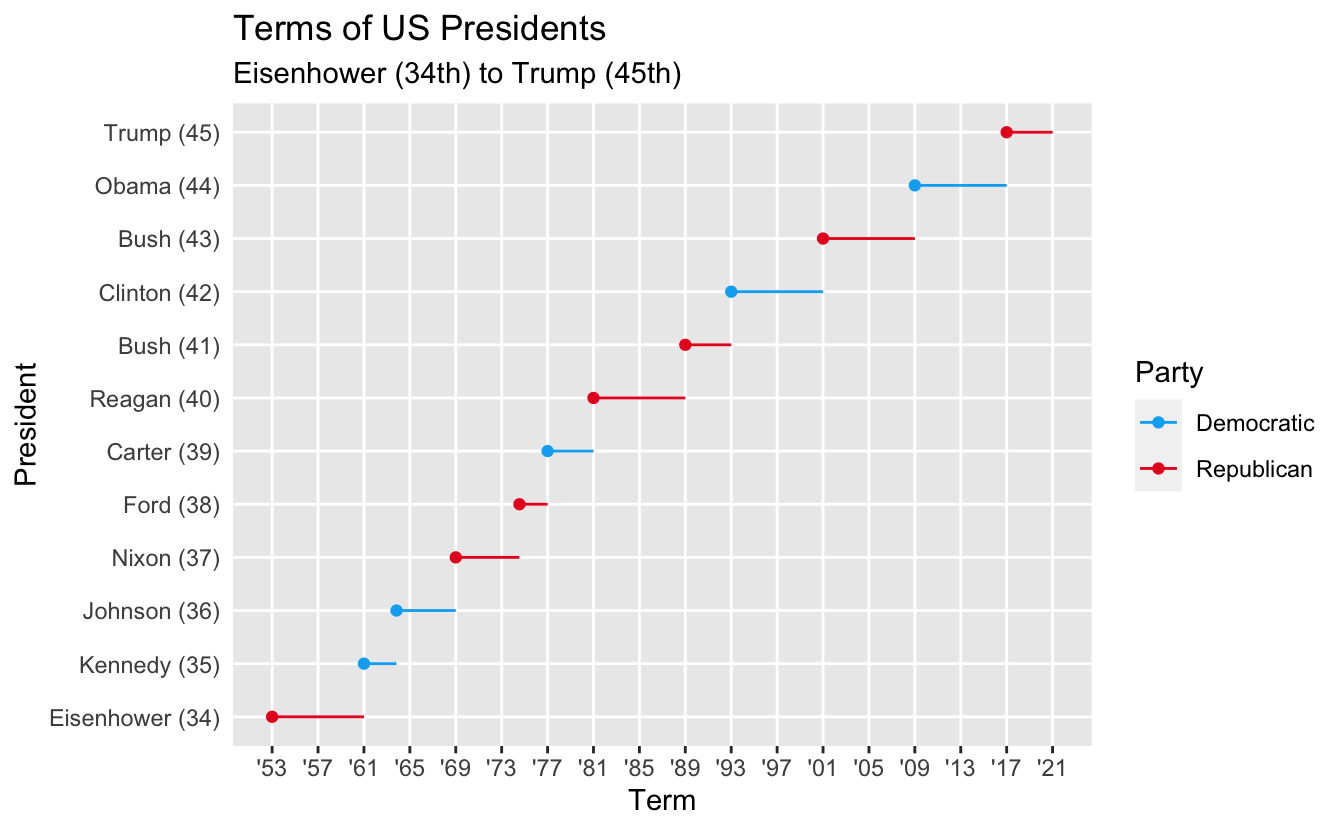
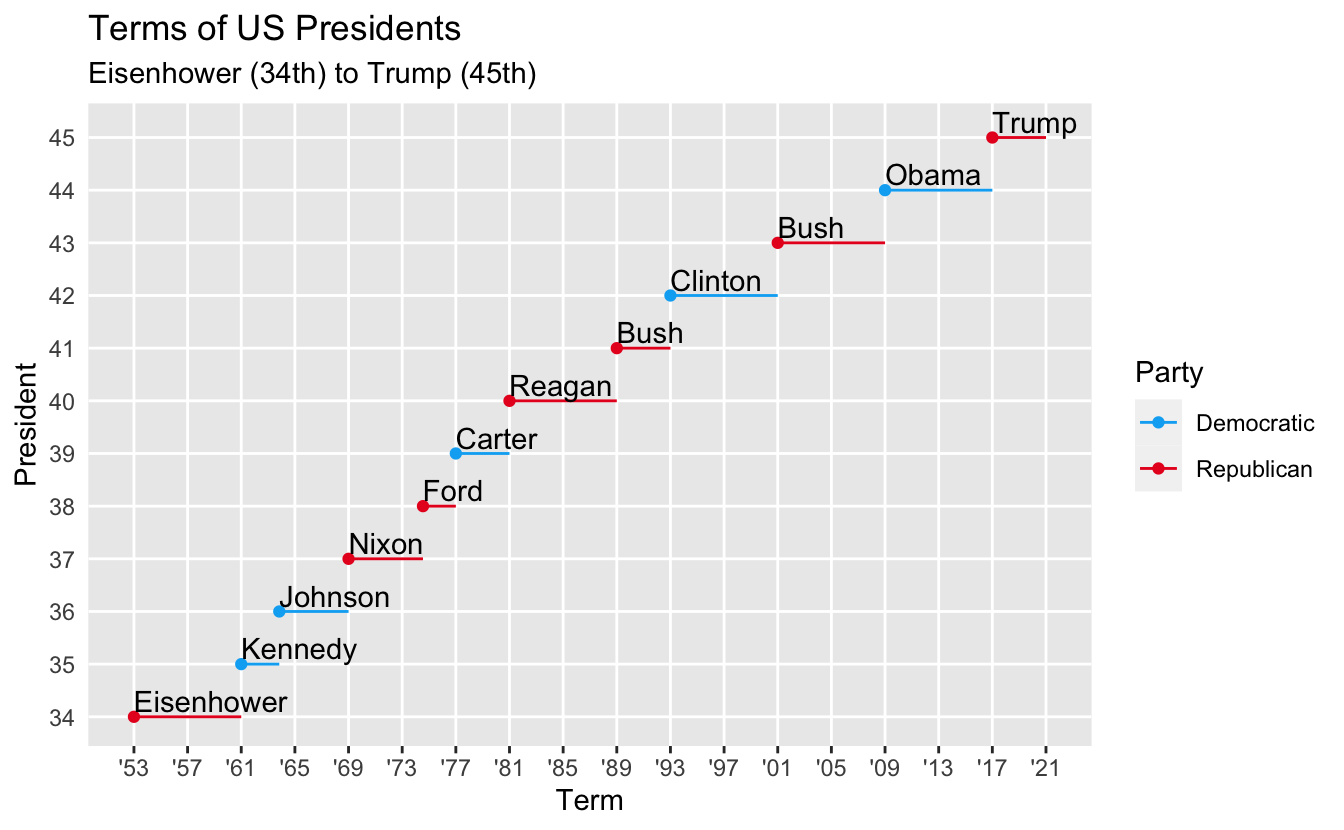
Update solution code

diff --git a/content/blog/data-trail/index.md b/content/blog/data-trail/index.md
@@ -16,7 +16,7 @@ photo:
 # one of: "deep-dive", "learn", "package", "programming", "roundup", or "other"
 categories: [learn] 
 tags: [book, internship]
-rmd_hash: 8aa13f52cfb3c5bd
+rmd_hash: b7373755f14ffe58
 
 ---
 
@@ -37,9 +37,9 @@ Last year at rstudio::conf(2022) Jeff Leek [shared about the Data Trail program]
 
 > DataTrail is a no-cost, paid 14-week educational initiative for young-adult, high school and GED-graduates. DataTrail aims to equip members of underserved communities with the necessary skills and support required to work in the booming field of data science. DataTrail is a fresh take on workforce development that focuses on training both Black, Indigenous, and other people of color (BIPOC) interested in the data science industry ***and*** their potential employers.
 
-We then have been so excited to have the opportunity to work with two Data Trail interns this year! [Jabir Ghaffar](https://jabirghaffar.quarto.pub/jabir/) went through the Data Trail program June 2022, and [Davon Person](https://www.linkedin.com/in/davon-person-1ba973194/) went through the Data Trail program in 2019, and now works as a Data Programming Specialist with the project. Jabir and Davon worked on solutions for the R for Data Science book, explored some Tidy Tuesday datasets, created their own Quarto websites, and their perspective helped us learn more about how our tools and documentation can better support emerging data scientists.
+We have been so excited then to have the opportunity to work with two Data Trail interns this year! [Jabir Ghaffar](https://jabirghaffar.quarto.pub/jabir/) went through the Data Trail program June 2022, and [Davon Person](https://www.linkedin.com/in/davon-person-1ba973194/) went through the Data Trail program in 2019, and now works as a Data Programming Specialist with the project. Jabir and Davon worked on solutions for the R for Data Science book, explored some Tidy Tuesday datasets, created their own Quarto websites, and their perspectives helped us learn more about how our tools and documentation can better support emerging data scientists.
 
-Jabir's primary project was to work on the [R for Data Science solutions](https://mine-cetinkaya-rundel.github.io/r4ds-solutions/). The R for Data Science, 2nd Edition was released in June 2023. In this edition there is a lot of new content, and revisions and additions to exercises. We saw that [Jeffrey Arnold's solutions to the 1st edition](https://jrnold.github.io/r4ds-exercise-solutions/) are such a useful resource for the community. This project aimed to both create a similar resource for 2nd edition and serve as an educational resource for the interns to help sharpen their tidyverse and general data science skills.
+Jabir's primary project was to work on the [R for Data Science solutions](https://mine-cetinkaya-rundel.github.io/r4ds-solutions/). The R for Data Science, 2nd Edition was released in June 2023. In this edition there is a lot of new content, and revisions and additions to exercises. We saw that [Jeffrey Arnold's solutions to the 1st edition](https://jrnold.github.io/r4ds-exercise-solutions/) are such a useful resource for the community. Therefore, this project aimed to both create a similar resource for 2nd edition and serve as an educational resource for the interns to help sharpen their tidyverse and general data science skills.
 
 Some learning highlights for Jabir included faceting (as a solution to overplotting), consistent code styling (which helps make the code more pleasing to read), and, making maps! Specifically, Jabir mentioned that he has always wondered "how did they do that?!" with maps and found them to be quite intimidating, so it was especially satisfying to create his first heatmap of US states and chance of getting a tornado (<https://jabirghaffar.quarto.pub/jabir/posts/tornado_mapping_exploration>). This was not just a satisfying visualization exercise, but also a great opportunity to dig into unfamiliar data wrangling functions like [`recode()`](https://dplyr.tidyverse.org/reference/recode.html) for converting 2-letter state abbreviations to state names.
 
@@ -86,24 +86,17 @@ The first challenge was identifying where in the text the original plot was deve
 <pre class='chroma'><code class='language-r' data-lang='r'><span><span class='nv'>presidential</span> <span class='o'>&lt;-</span> <span class='nv'>presidential</span> <span class='o'>|&gt;</span></span>
 <span>  <span class='nf'><a href='https://dplyr.tidyverse.org/reference/mutate.html'>mutate</a></span><span class='o'>(</span>id <span class='o'>=</span> <span class='m'>33</span> <span class='o'>+</span> <span class='nf'><a href='https://dplyr.tidyverse.org/reference/row_number.html'>row_number</a></span><span class='o'>(</span><span class='o'>)</span><span class='o'>)</span></span>
 <span></span>
-<span><span class='nf'><a href='https://ggplot2.tidyverse.org/reference/ggplot.html'>ggplot</a></span><span class='o'>(</span><span class='nv'>presidential</span>, <span class='nf'><a href='https://ggplot2.tidyverse.org/reference/aes.html'>aes</a></span><span class='o'>(</span>x <span class='o'>=</span> <span class='nv'>start</span>, y <span class='o'>=</span> <span class='nv'>id</span>, color <span class='o'>=</span> <span class='nv'>party</span><span class='o'>)</span><span class='o'>)</span> <span class='o'>+</span></span>
-<span>  <span class='nf'><a href='https://ggplot2.tidyverse.org/reference/geom_point.html'>geom_point</a></span><span class='o'>(</span><span class='o'>)</span> <span class='o'>+</span></span>
-<span>  <span class='nf'><a href='https://ggplot2.tidyverse.org/reference/geom_segment.html'>geom_segment</a></span><span class='o'>(</span><span class='nf'><a href='https://ggplot2.tidyverse.org/reference/aes.html'>aes</a></span><span class='o'>(</span>xend <span class='o'>=</span> <span class='nv'>end</span>, yend <span class='o'>=</span> <span class='nv'>id</span><span class='o'>)</span><span class='o'>)</span> <span class='o'>+</span></span>
+<span><span class='nf'><a href='https://ggplot2.tidyverse.org/reference/ggplot.html'>ggplot</a></span><span class='o'>(</span><span class='nv'>presidential</span>, <span class='nf'><a href='https://ggplot2.tidyverse.org/reference/aes.html'>aes</a></span><span class='o'>(</span>x <span class='o'>=</span> <span class='nv'>start</span>, y <span class='o'>=</span> <span class='nv'>id</span><span class='o'>)</span><span class='o'>)</span> <span class='o'>+</span></span>
+<span>  <span class='nf'><a href='https://ggplot2.tidyverse.org/reference/geom_point.html'>geom_point</a></span><span class='o'>(</span><span class='nf'><a href='https://ggplot2.tidyverse.org/reference/aes.html'>aes</a></span><span class='o'>(</span>color <span class='o'>=</span> <span class='nv'>party</span><span class='o'>)</span><span class='o'>)</span> <span class='o'>+</span></span>
+<span>  <span class='nf'><a href='https://ggplot2.tidyverse.org/reference/geom_segment.html'>geom_segment</a></span><span class='o'>(</span><span class='nf'><a href='https://ggplot2.tidyverse.org/reference/aes.html'>aes</a></span><span class='o'>(</span>xend <span class='o'>=</span> <span class='nv'>end</span>, yend <span class='o'>=</span> <span class='nv'>id</span>, color <span class='o'>=</span> <span class='nv'>party</span><span class='o'>)</span><span class='o'>)</span> <span class='o'>+</span></span>
+<span>  <span class='nf'><a href='https://ggplot2.tidyverse.org/reference/geom_text.html'>geom_text</a></span><span class='o'>(</span><span class='nf'><a href='https://ggplot2.tidyverse.org/reference/aes.html'>aes</a></span><span class='o'>(</span>label <span class='o'>=</span> <span class='nv'>name</span><span class='o'>)</span>, hjust <span class='o'>=</span> <span class='m'>0</span>, vjust <span class='o'>=</span> <span class='m'>0</span>, nudge_y <span class='o'>=</span> <span class='m'>0.1</span><span class='o'>)</span> <span class='o'>+</span></span>
 <span>  <span class='nf'><a href='https://ggplot2.tidyverse.org/reference/scale_manual.html'>scale_color_manual</a></span><span class='o'>(</span>values <span class='o'>=</span> <span class='nf'><a href='https://rdrr.io/r/base/c.html'>c</a></span><span class='o'>(</span>Republican <span class='o'>=</span> <span class='s'>"#E81B23"</span>, Democratic <span class='o'>=</span> <span class='s'>"#00AEF3"</span><span class='o'>)</span><span class='o'>)</span> <span class='o'>+</span></span>
 <span>  <span class='nf'><a href='https://ggplot2.tidyverse.org/reference/scale_date.html'>scale_x_date</a></span><span class='o'>(</span></span>
 <span>    name <span class='o'>=</span> <span class='s'>"Term"</span>,</span>
 <span>    breaks <span class='o'>=</span> <span class='nf'><a href='https://rdrr.io/r/base/seq.html'>seq</a></span><span class='o'>(</span>from <span class='o'>=</span> <span class='nf'><a href='https://lubridate.tidyverse.org/reference/ymd.html'>ymd</a></span><span class='o'>(</span><span class='s'>"1953-01-20"</span><span class='o'>)</span>, to <span class='o'>=</span> <span class='nf'><a href='https://lubridate.tidyverse.org/reference/ymd.html'>ymd</a></span><span class='o'>(</span><span class='s'>"2021-01-20"</span><span class='o'>)</span>, by <span class='o'>=</span> <span class='s'>"4 years"</span><span class='o'>)</span>,</span>
 <span>    date_labels <span class='o'>=</span> <span class='s'>"'%y"</span></span>
 <span>  <span class='o'>)</span> <span class='o'>+</span></span>
-<span>  <span class='nf'><a href='https://ggplot2.tidyverse.org/reference/scale_continuous.html'>scale_y_continuous</a></span><span class='o'>(</span></span>
-<span>    name <span class='o'>=</span> <span class='s'>"President"</span>,</span>
-<span>    breaks <span class='o'>=</span> <span class='m'>34</span><span class='o'>:</span><span class='m'>45</span>,</span>
-<span>    labels <span class='o'>=</span> <span class='nf'><a href='https://rdrr.io/r/base/paste.html'>paste0</a></span><span class='o'>(</span><span class='nv'>presidential</span><span class='o'>$</span><span class='nv'>name</span>, <span class='s'>" ("</span>, <span class='nv'>presidential</span><span class='o'>$</span><span class='nv'>id</span>, <span class='s'>")"</span><span class='o'>)</span></span>
-<span>  <span class='o'>)</span> <span class='o'>+</span></span>
-<span>  <span class='nf'><a href='https://ggplot2.tidyverse.org/reference/theme.html'>theme</a></span><span class='o'>(</span></span>
-<span>    panel.grid.minor <span class='o'>=</span> <span class='nf'><a href='https://ggplot2.tidyverse.org/reference/element.html'>element_blank</a></span><span class='o'>(</span><span class='o'>)</span>,</span>
-<span>    axis.ticks.y <span class='o'>=</span> <span class='nf'><a href='https://ggplot2.tidyverse.org/reference/element.html'>element_blank</a></span><span class='o'>(</span><span class='o'>)</span></span>
-<span>  <span class='o'>)</span> <span class='o'>+</span></span>
+<span>  <span class='nf'><a href='https://ggplot2.tidyverse.org/reference/scale_continuous.html'>scale_y_continuous</a></span><span class='o'>(</span>breaks <span class='o'>=</span> <span class='m'>34</span><span class='o'>:</span><span class='m'>45</span><span class='o'>)</span> <span class='o'>+</span></span>
 <span>  <span class='nf'><a href='https://ggplot2.tidyverse.org/reference/theme.html'>theme</a></span><span class='o'>(</span></span>
 <span>    panel.grid.minor <span class='o'>=</span> <span class='nf'><a href='https://ggplot2.tidyverse.org/reference/element.html'>element_blank</a></span><span class='o'>(</span><span class='o'>)</span>,</span>
 <span>    axis.ticks.y <span class='o'>=</span> <span class='nf'><a href='https://ggplot2.tidyverse.org/reference/element.html'>element_blank</a></span><span class='o'>(</span><span class='o'>)</span></span>
@@ -122,7 +115,7 @@ The first challenge was identifying where in the text the original plot was deve
 
 Jabir felt like moments when he knew what to do and how to answer each question were very satisfying, but the moments where he felt stuck and went into rabbit holes looking for answers made him question whether he wanted to continue becoming a data scientist. Ultimately, though, the project was enjoyable, and not just a great learning experience for Jabir, but also a very meaningful one because it created a resource that can help future data scientists.
 
-We felt like Jabir and Davon advanced their data science skills throughout the project, and their familiarity with working on an open source project. It was particularly exciting to see Jabir create his own data science portfolio as a Quarto website with posts on the Tidy Tuesday datasets. We really appreciated his work on the R4DS Solutions. In going through those, he helped better refine the book, and created a resource that so many people are going to be able to use and learn from. We could see how he learned not just data science, but also grew as a leader who will continue to support others in their learning as he moves on to work as a developer with the Data Trail program. Davon too not just focused on data science, but was a part of our team, and the Data Trail team, providing mentorship to Jabir and bringing teaching approaches, like using Tidy Tuesday datasets, to his community. We are so grateful to have had the opportunity to work with them both, and see this as the beginning of continued collaborations and hopefully contributions in open source.
+We felt like Jabir and Davon advanced their data science skills, and familiarity with working in open source, throughout the project. It was particularly exciting to see Jabir create his own data science portfolio as a Quarto website with posts on the Tidy Tuesday datasets, and we really appreciated his work on the R4DS Solutions. In going through those, he helped better refine the book, and created a resource that so many people are going to be able to use and learn from. We could see how he learned not just data science, but also grew as a leader who will continue to support others in their learning as he moves on to work as a developer with the Data Trail program. Davon too focused not just on data science, but was a part of our team, and the Data Trail team, providing mentorship to Jabir and bringing teaching approaches, like using Tidy Tuesday datasets, to his community. We are so grateful to have had the opportunity to work with them both, and see this as the beginning of continued collaborations.
 
 Just like most open-source projects, the [R4DS Solutions](https://mine-cetinkaya-rundel.github.io/r4ds-solutions/) is a living and breathing project, still a work-in-progress. We would welcome any community contributions! All perspectives are important here, and it's a great project if you're a first-time contributor.
 
